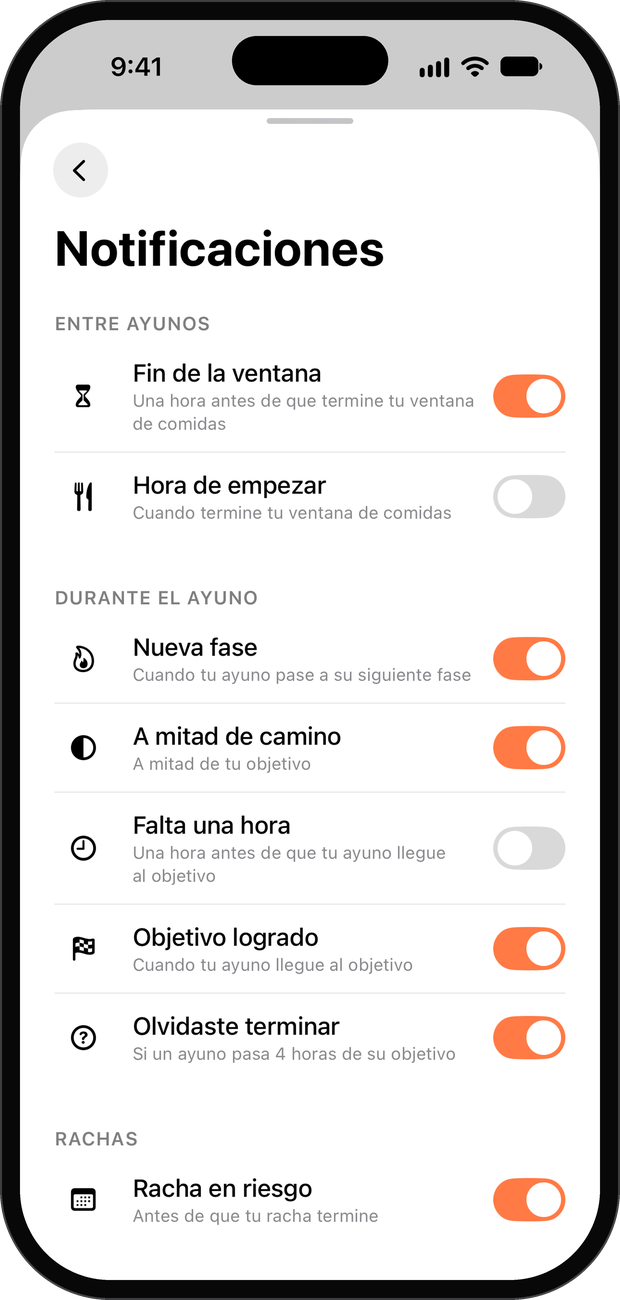
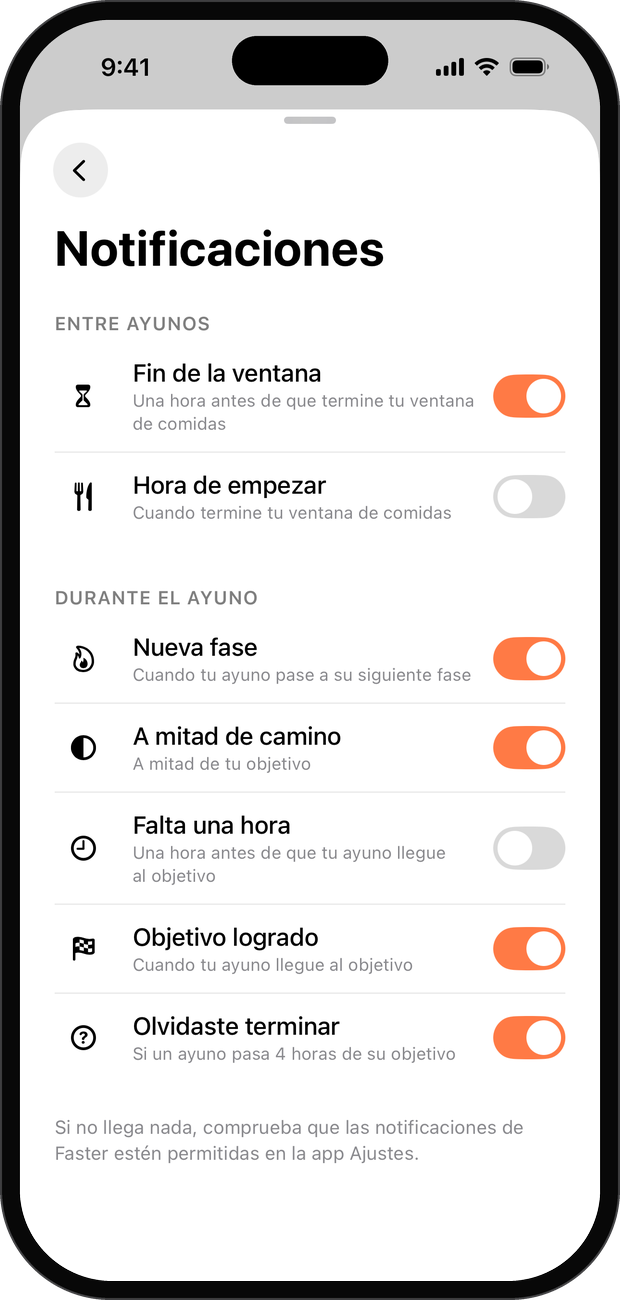
Show ending a fast beside the watch, and notifications without streaks
The watch section's right-hand watch is now the end fast screen rather than a
reminder, in all six languages. The notification settings screenshots are the
current app's, which no longer has the streak reminder.

Changed region(s): [[0.0919, 0.8615, 0.9194, 0.9538], [0.6742, 0.0308, 0.8887, 0.0615], [0.1532, 0.0308, 0.2758, 0.0615]]

diff --git a/src/i18n/ja.ts b/src/i18n/ja.ts
@@ -55,7 +55,7 @@ export default {
     title: '手元で、ひと目で。',
     text: 'Apple WatchのFasterなら、ファスティングの経過をフェーズごとにひと目で確認できます。ファスティングの開始・終了・予約や目標の変更も手元で。iPhoneが近くになくても、あとでiPhoneと同期されます。',
     app: 'Apple WatchのFaster：脂肪燃焼フェーズで14時間経過したファスティング。開始時刻、目標時刻、「ファスティング終了」ボタン。',
-    notification: 'Apple Watchの「ファスティング完了」通知。16時間を示すゲージと、終了・1時間延長のボタン。',
+    end: 'Apple Watchでファスティングを終了する画面。16時間の目標に対する経過時間と「ファスティング終了」ボタン。',
     face: 'Fasterのリングとバーのコンプリケーションを配置した文字盤。どちらも14時間、脂肪燃焼フェーズを表示。',
     hero: '同じファスティングを表示しているApple WatchのFaster。',
   },

diff --git a/src/i18n/fr.ts b/src/i18n/fr.ts
@@ -56,7 +56,7 @@ export default {
     title: 'À votre poignet.',
     text: 'Sur l’Apple Watch, Faster affiche votre jeûne d’un coup d’œil, phase par phase. Commencez, terminez ou programmez un jeûne et modifiez votre objectif depuis votre poignet. Tout reste synchronisé avec votre iPhone, même quand vous ne l’avez pas sur vous.',
     app: 'Faster sur l’Apple Watch : un jeûne à 14 heures dans la phase brûle-graisses, avec ses heures de début et d’objectif et le bouton Terminer le jeûne.',
-    notification: 'La notification Jeûne terminé sur l’Apple Watch, avec une jauge à 16 heures et des boutons pour terminer le jeûne ou ajouter une heure.',
+    end: 'Terminer un jeûne sur l’Apple Watch : sa durée face à l’objectif de 16 heures, avec le bouton Terminer le jeûne.',
     face: 'Un cadran avec les complications anneau et barre de Faster, toutes deux dans la phase brûle-graisses à 14 heures.',
     hero: 'Faster sur l’Apple Watch avec le même jeûne.',
   },

diff --git a/src/i18n/de.ts b/src/i18n/de.ts
@@ -55,7 +55,7 @@ export default {
     title: 'Am Handgelenk.',
     text: 'Faster auf der Apple Watch zeigt dir dein Fasten auf einen Blick, Phase für Phase. Starte, beende oder plane ein Fasten und ändere dein Ziel direkt am Handgelenk. Alles bleibt mit deinem iPhone abgeglichen, auch wenn du es gerade nicht dabeihast.',
     app: 'Faster auf der Apple Watch: ein Fasten bei 14 Stunden in der Phase Fettverbrennung, mit Start- und Zielzeit und der Taste „Fasten beenden“.',
-    notification: 'Die Mitteilung „Fasten geschafft“ auf der Apple Watch, mit einer Anzeige bei 16 Stunden und Tasten zum Beenden oder für eine Stunde mehr.',
+    end: 'Fasten beenden auf der Apple Watch: die bisherige Dauer gegenüber dem 16-Stunden-Ziel, mit der Taste „Fasten beenden“.',
     face: 'Ein Zifferblatt mit den Komplikationen Ring und Balken von Faster, beide in der Phase Fettverbrennung bei 14 Stunden.',
     hero: 'Faster auf der Apple Watch mit demselben Fasten.',
   },

diff --git a/src/i18n/es.ts b/src/i18n/es.ts
@@ -55,7 +55,7 @@ export default {
     title: 'En tu muñeca.',
     text: 'Faster en el Apple Watch te muestra tu ayuno de un vistazo, fase a fase. Empieza, termina o programa un ayuno y cambia tu objetivo desde la muñeca. Todo se mantiene sincronizado con tu iPhone, aunque no lo lleves encima.',
     app: 'Faster en el Apple Watch: un ayuno de 14 horas en la fase de quema de grasa, con la hora de inicio, el objetivo y el botón Terminar ayuno.',
-    notification: 'La notificación Ayuno completado en el Apple Watch, con un indicador en 16 horas y botones para terminar el ayuno o sumar una hora.',
+    end: 'Terminar un ayuno en el Apple Watch: su duración frente al objetivo de 16 horas, con el botón Terminar ayuno.',
     face: 'Una esfera con las complicaciones de anillo y barra de Faster, ambas en la fase de quema de grasa a las 14 horas.',
     hero: 'Faster en el Apple Watch con el mismo ayuno.',
   },

diff --git a/src/i18n/pt-br.ts b/src/i18n/pt-br.ts
@@ -55,7 +55,7 @@ export default {
     title: 'No seu pulso.',
     text: 'No Apple Watch, o Faster mostra seu jejum num relance, fase por fase. Comece, encerre ou agende um jejum e mude sua meta pelo pulso. Tudo fica sincronizado com o seu iPhone, mesmo quando ele não está por perto.',
     app: 'Faster no Apple Watch: um jejum de 14 horas na fase de queima de gordura, com horário de início, meta e o botão Encerrar jejum.',
-    notification: 'A notificação Jejum concluído no Apple Watch, com um indicador em 16 horas e botões para encerrar o jejum ou somar uma hora.',
+    end: 'Encerrar um jejum no Apple Watch: a duração em relação à meta de 16 horas, com o botão Encerrar jejum.',
     face: 'Um mostrador com as complicações de anel e barra do Faster, ambas na fase de queima de gordura com 14 horas.',
     hero: 'Faster no Apple Watch com o mesmo jejum.',
   },

diff --git a/src/i18n/en.ts b/src/i18n/en.ts
@@ -58,7 +58,7 @@ export default {
     title: 'On your wrist.',
     text: 'Faster on Apple Watch shows your fast at a glance, phase by phase. Start, end or schedule a fast and change your goal from your wrist. It stays in sync with your iPhone, even when you fast without it nearby.',
     app: 'Faster on Apple Watch: a fast at 14 hours in the fat burning phase, with its start and goal times and an End fast button.',
-    notification: 'Faster\'s Fast complete notification on Apple Watch, with a gauge at 16 hours and buttons to end the fast or add an hour.',
+    end: 'Ending a fast on Apple Watch: its length against the 16-hour goal, with an End fast button.',
     face: 'A watch face with Faster\'s ring and bar complications, both showing the fat burning phase at 14 hours.',
     hero: 'Faster on Apple Watch, showing the same fast.',
   },

diff --git a/src/styles/style.css b/src/styles/style.css
@@ -129,7 +129,7 @@ p { margin: 0; }
 .pair .lock .lock-widget { position: absolute; top: 63%; left: -14%; width: 128%; max-width: none; }
 .trio .phone { width: min(210px, 30vw); }
 .watch { filter: drop-shadow(0 24px 32px rgba(0, 0, 0, 0.22)); }
-/* The app in front, the face and a reminder either side, like the themes' phones. */
+/* The app in front, the face and ending a fast either side, like the themes' phones. */
 .watches { display: flex; align-items: center; }
 .watches .watch { width: min(200px, 29vw); }
 .watches > :nth-child(2) > .watch { width: min(245px, 36vw); margin: 0 -34px; position: relative; z-index: 1; }
